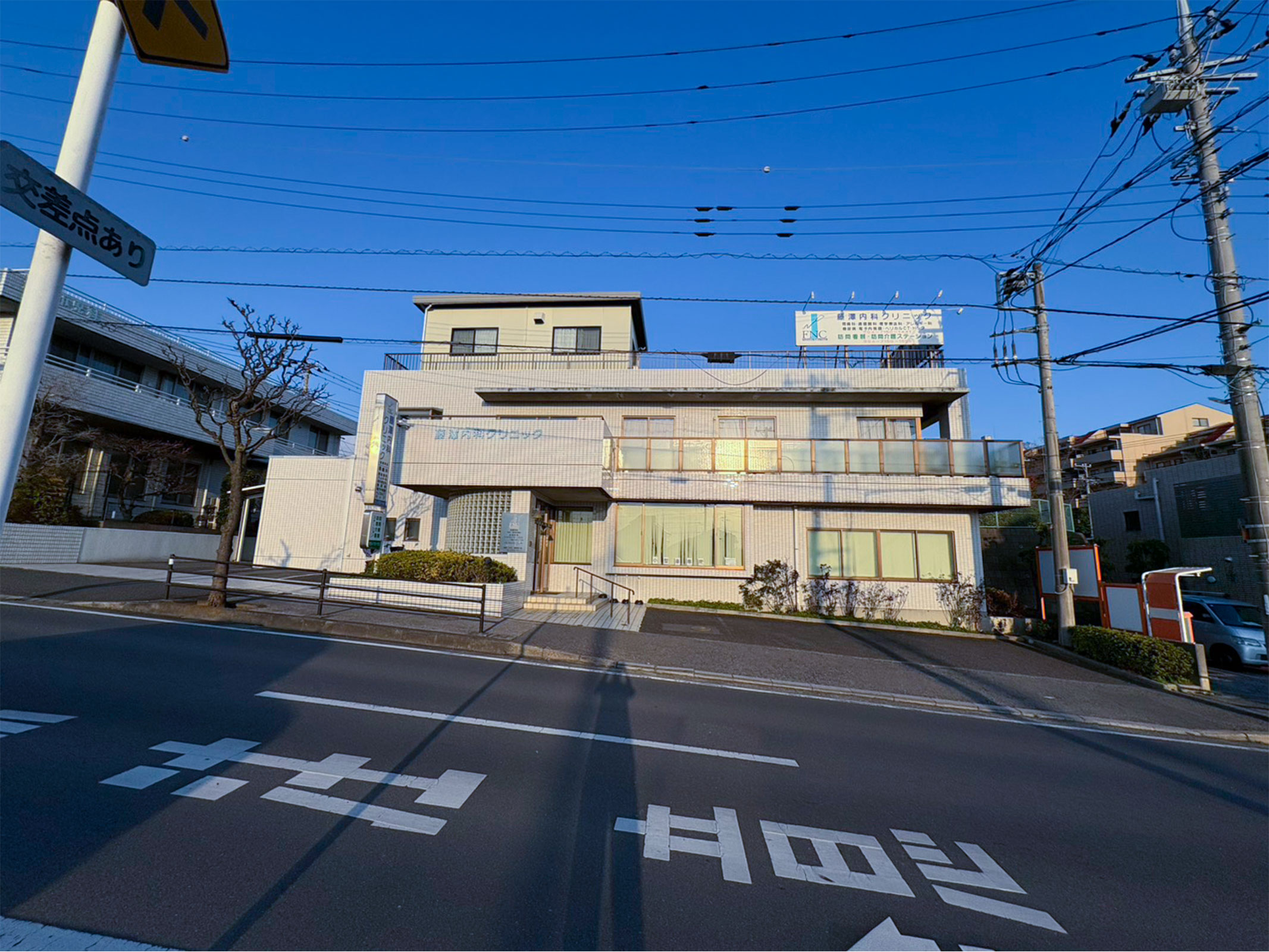
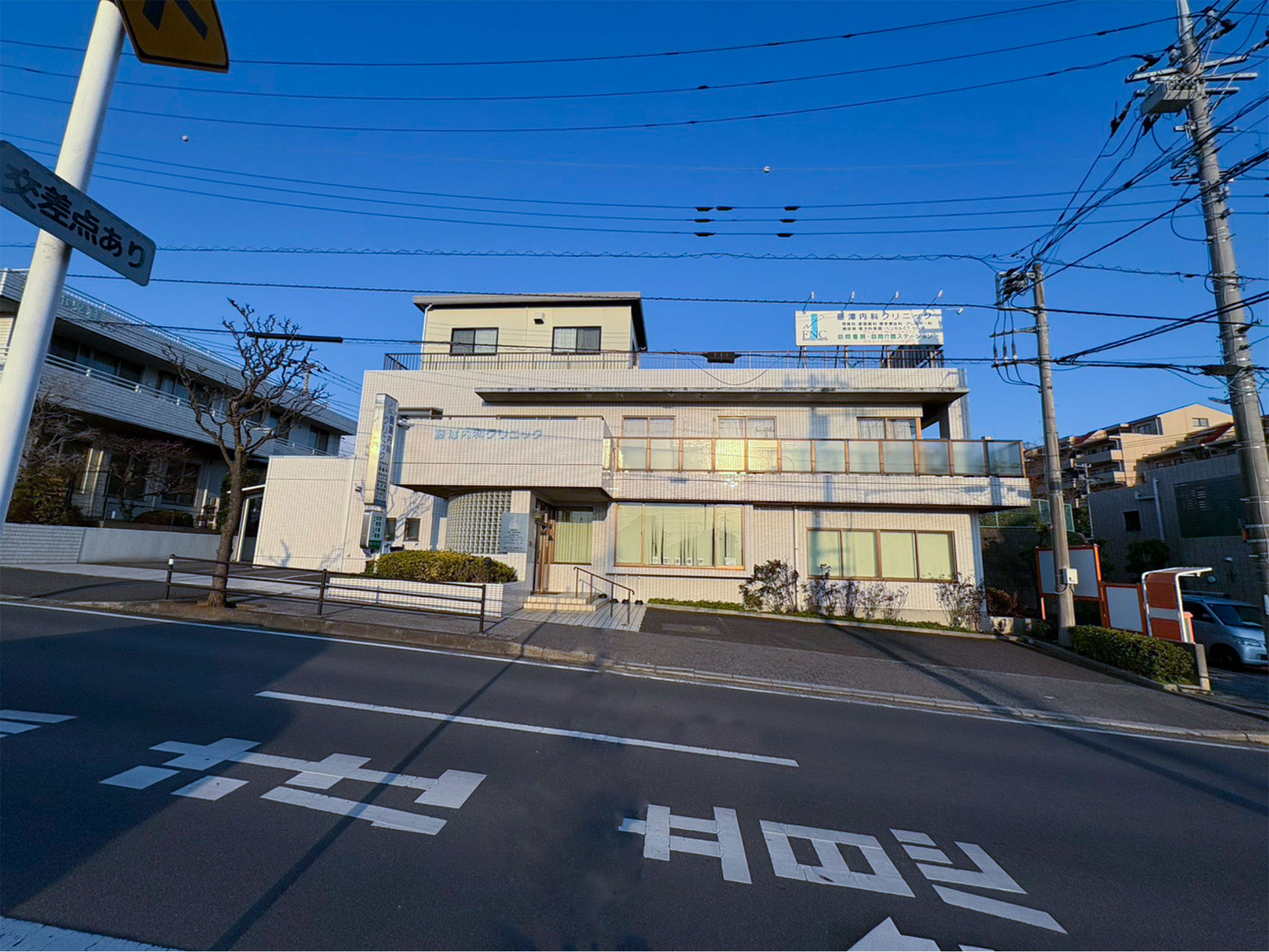
バナー作成

Changed region(s): [[0.4332, 0.6558, 0.526, 0.8745], [0.4641, 0.9057, 0.526, 0.9681], [0.4023, 0.9681, 0.4641, 0.9994]]

diff --git a/resources/views/layouts/partials/hero-slideshow.blade.php b/resources/views/layouts/partials/hero-slideshow.blade.php
@@ -5,7 +5,7 @@
 <div class="hero-media">
     @foreach(['clinic_view.jpg', 'CT_scanner.jpg', 'endoscope.jpg', 'reception_space.jpg'] as $i => $filename)
     <div class="hero-slide" role="img" aria-label="クリニックイメージ {{ $i + 1 }}">
-        <img src="{{ asset('images/slideshow/' . $filename) }}" alt="クリニック外観・院内イメージ {{ $i + 1 }}" />
+        <img src="{{ asset('images/slideshow/' . $filename . '?v=1') }}" alt="クリニック外観・院内イメージ {{ $i + 1 }}" />
     </div>
     @endforeach
 </div>
